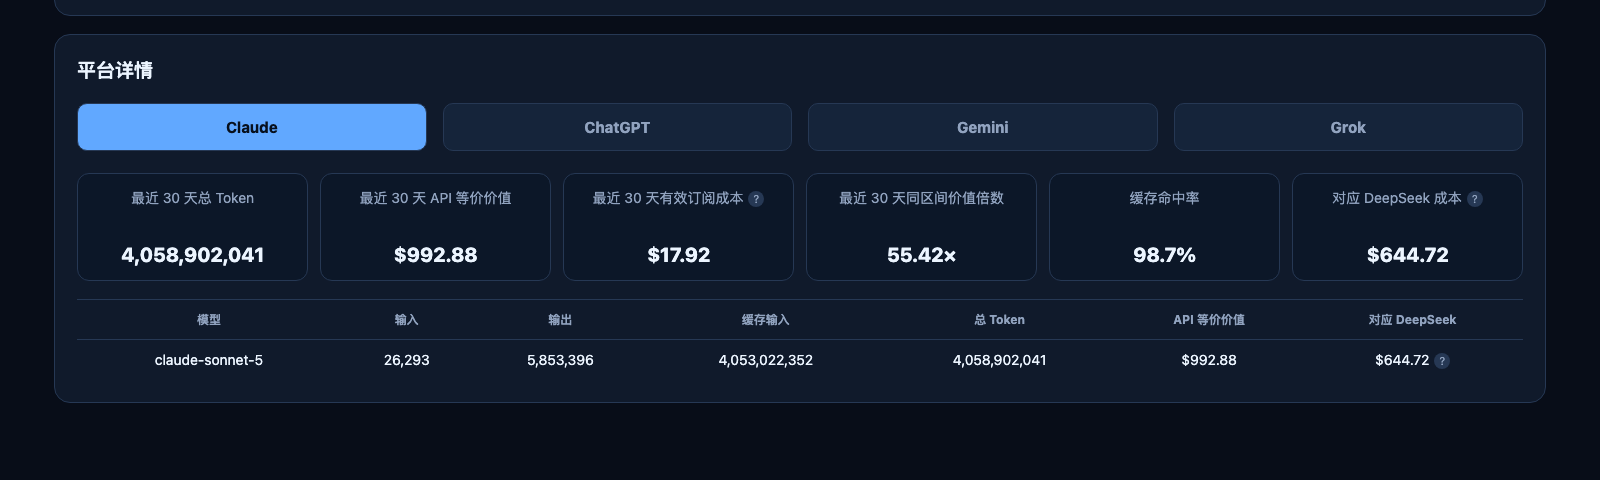
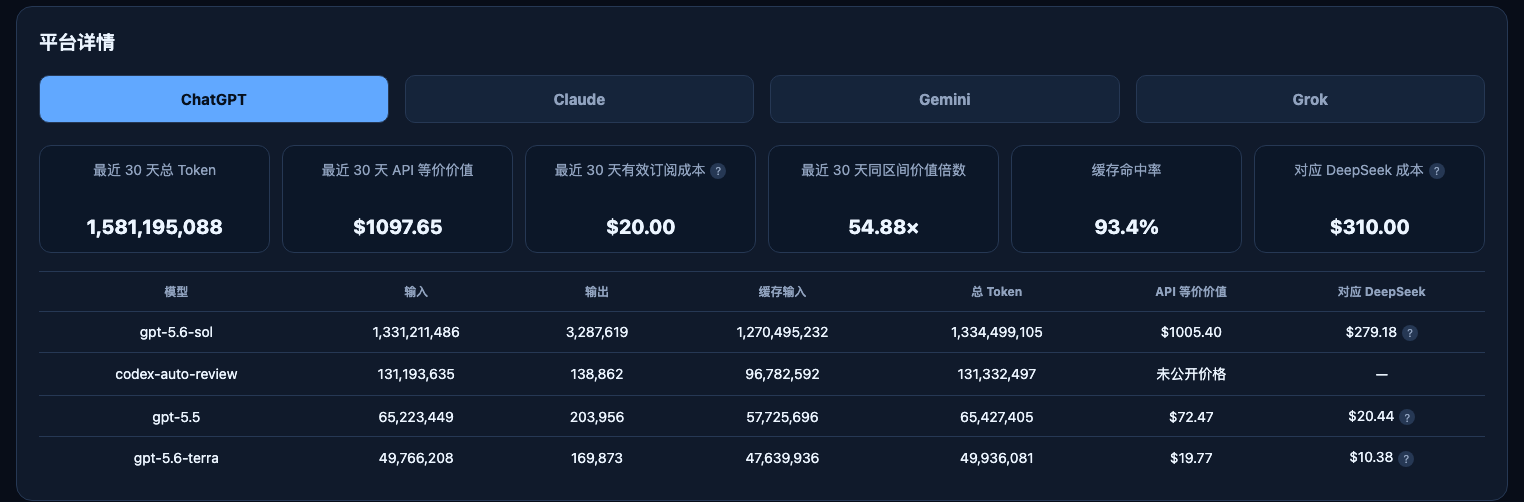
Fix the live app's help page never loading real pricing data
write_help() defaulted to a config/pricing.json path resolved
relative to help_page.py's own file location, which only works
in a dev checkout. In the packaged app this pointed at a stale,
build-time snapshot instead of the user's live, auto-updated
pricing file — so the live help page's model pricing table and
DeepSeek pricing table rendered empty. desktop_app.py now loads
the real local pricing and the DeepSeek tier map itself and
passes them into write_help() at every call site.

Also fixes the Chinese DeepSeek-comparison screenshot, which had
the same left-to-right tab order problem as the Claude one fixed
earlier: Claude was shown first when ChatGPT is actually first.

diff --git a/src/desktop_app.py b/src/desktop_app.py
@@ -73,6 +73,18 @@ def load_runtime_pricing() -> dict:
     return pricing
 
 
+def load_deepseek_tiers() -> dict[str, str]:
+    try:
+        raw = json.loads((RESOURCE_ROOT / "config" / "deepseek_tier_map.json").read_text(encoding="utf-8"))
+    except (OSError, json.JSONDecodeError):
+        return {}
+    return {key: value for key, value in raw.items() if not key.startswith("_")}
+
+
+def write_help_page(language: str) -> None:
+    write_help(HELP_PATH, language, APP_VERSION, load_runtime_pricing(), load_deepseek_tiers())
+
+
 def save_subscription_plan(plan: dict) -> list[dict]:
     provider, cycle = plan.get("provider"), plan.get("cycle")
     start_date, amount = plan.get("start_date"), plan.get("amount")
@@ -175,7 +187,7 @@ class DesktopApp:
             base_report = ai_usage_report.render_dashboard(usages, 30, source_files, pricing, app_version=APP_VERSION)
             BASE_REPORT_PATH.write_text(base_report, encoding="utf-8")
             REPORT_PATH.write_text(localize_html(base_report, self.settings["language"]), encoding="utf-8")
-            write_help(HELP_PATH, self.settings["language"], APP_VERSION)
+            write_help_page(self.settings["language"])
             if auto_updated_version:
                 notify(self.messages["app_name"], self.messages["auto_price_update_message"].format(model=", ".join(newly_found), version=auto_updated_version))
             if unknown:
@@ -225,7 +237,7 @@ class DesktopApp:
             REPORT_PATH.write_text(localize_html(BASE_REPORT_PATH.read_text(encoding="utf-8"), language), encoding="utf-8")
         else:
             self.refresh()
-        write_help(HELP_PATH, language, APP_VERSION)
+        write_help_page(language)
 
     def _refresh_icon_menu(self) -> None:
         self.icon.title = self.messages["app_name"]
@@ -260,7 +272,7 @@ class DesktopApp:
         webbrowser.open(REPORT_PATH.as_uri())
 
     def open_help(self) -> None:
-        write_help(HELP_PATH, self.settings["language"], APP_VERSION)
+        write_help_page(self.settings["language"])
         webbrowser.open(f"http://127.0.0.1:{LOCAL_PORT}/help")
 
     def open_settings(self) -> None:
@@ -285,7 +297,7 @@ class DesktopApp:
                     self.wfile.write(body)
                     return
                 if self.path.startswith("/help"):
-                    write_help(HELP_PATH, app.settings["language"], APP_VERSION)
+                    write_help_page(app.settings["language"])
                     body = HELP_PATH.read_bytes()
                     self.send_response(200)
                     self._cors()

diff --git a/src/help_page.py b/src/help_page.py
@@ -141,7 +141,13 @@ def render_help(
     return f'''<!doctype html><html lang="{html.escape(language)}"><head><meta charset="utf-8"><meta name="viewport" content="width=device-width,initial-scale=1">{FAVICON_TAG}<title>{html.escape(t['title'])}</title><style>{style}</style></head><body><main><h1>{LOGO_IMG}{html.escape(t['title'])}</h1><p>{html.escape(t['intro'])} · Ver {html.escape(app_version)}</p>{sections}{model_pricing_section}{deepseek_section}<section><h2>{html.escape(t['commands'])}</h2><pre>{html.escape(COMMANDS)}</pre></section><section><h2>{html.escape(t['detection'])}</h2><p>{html.escape(t['detection_note'])}</p><table><thead><tr><th>{html.escape(t['provider'])}</th><th>{html.escape(t['surface'])}</th><th>{html.escape(t['status'])}</th><th>{html.escape(t['files'])}</th></tr></thead><tbody>{rows}</tbody></table></section><section><h2>{html.escape(t['prompt'])}</h2><pre class="prompt">{html.escape(AI_PROMPT)}</pre></section></main><script>{script}</script></body></html>'''
 
 
-def write_help(path: Path, language: str, app_version: str = "development") -> Path:
+def write_help(
+    path: Path,
+    language: str,
+    app_version: str = "development",
+    pricing: dict | None = None,
+    deepseek_tiers: dict[str, str] | None = None,
+) -> Path:
     path.parent.mkdir(parents=True, exist_ok=True)
-    path.write_text(render_help(language, app_version), encoding="utf-8")
+    path.write_text(render_help(language, app_version, pricing, deepseek_tiers), encoding="utf-8")
     return path
